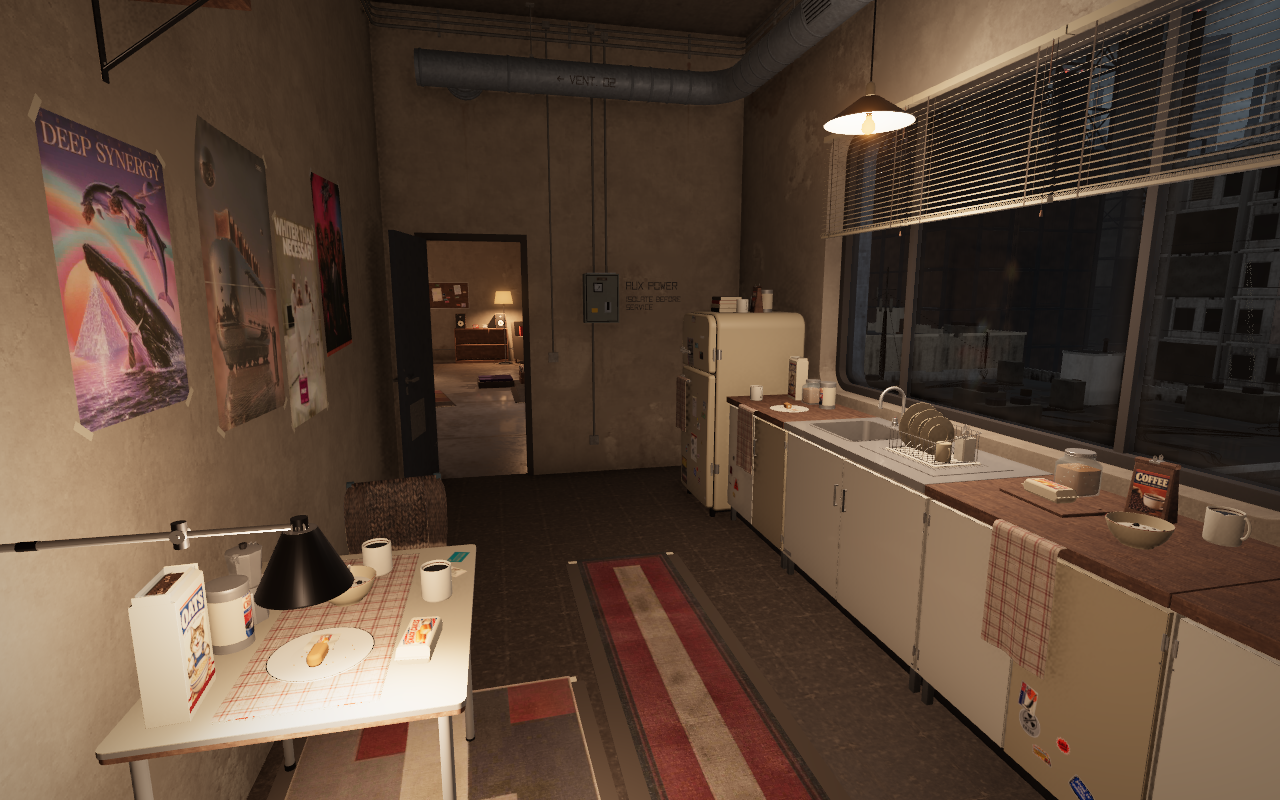
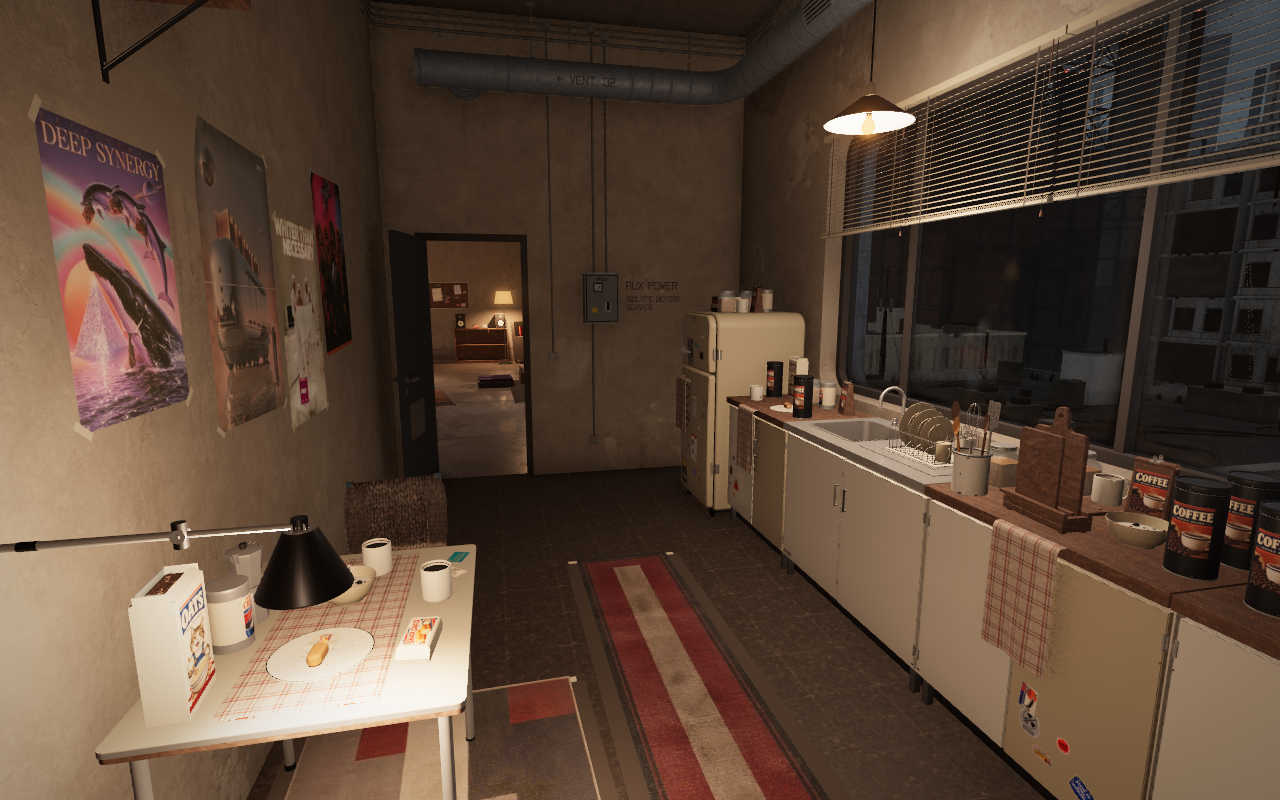
Show final counter props in kitchen reference comparison

Changed region(s): [[0.7188, 0.5, 1.0, 0.7812], [0.5938, 0.4375, 0.6875, 0.5312], [0.5625, 0.3438, 0.5938, 0.4062]]

diff --git a/concepts/kitchen-comfort-2026-10-09/index.html b/concepts/kitchen-comfort-2026-10-09/index.html
@@ -26,7 +26,7 @@
   <p>Vibe collected and repaired this room herself. These concepts add places to settle in, useful rescued storage, illustrated pantry packs and traces of two girls sharing their daily life.</p>
   <p class="hint">Placement rule for every direction: furnishings find suitable walls and floor space; loose items choose compatible worktops, dining surfaces, shelves and hooks. Changing the room layout must repack them onto the available surfaces. The pictures describe the mood and useful groups, rather than fixed object coordinates.</p>
   <div class="notice">
-    <p><strong>Matching the approved coffee hangout.</strong> The reference below is the target. Fuller storage, larger wall art, personal papers, faded plaid and repaired furniture are now in the matching pass. The next step adds standing boards, utensils and taller reused tins.</p>
+    <p><strong>Matching the approved coffee hangout.</strong> The reference below is the target. Fuller storage, larger wall art, personal papers, faded plaid and repaired furniture are now in the matching pass. Standing boards, a utensil crock and sixteen taller reused tins are now finished and placed by their surface rules.</p>
     <p class="hint">Only shelf-stable food and drinks: oats, coffee, powdered non-dairy creamer, sugar and long-life cakes. No plants. Loose items choose compatible surfaces and reshuffle after furniture edits. The cloth shares the existing atlas, with unchanged GPU memory.</p>
     <p><a href="https://lcs-rooms.up.railway.app/?t=19">Open the live kitchen</a> · <a href="../../props/?item=kitchen-chair-blue">Inspect the catalog models</a></p>
   </div>
@@ -41,9 +41,9 @@
     <h2>Reference and current 3D progress</h2>
     <p>The room is being judged against this picture. Finished asset counts and the automatic comfort score do not measure the visual match.</p>
     <figure><a href="approved-target.png"><img src="approved-target.png" alt="Approved makeshift coffee kitchen reference with crowded pantry shelves, plaid towels, a knitted chair drape, personal papers and warm shaded lamps." width="1280" height="800" fetchpriority="high"></a><figcaption>Approved target · generated concept art.</figcaption></figure>
-    <figure><a href="progress-a.png"><img src="progress-a.png" alt="Current native 3D kitchen matching pass with fuller storage, personal walls, plaid fridge and counter towels, repaired cupboards and a full knitted chair back." width="1280" height="800" loading="lazy"></a><figcaption>Current 3D implementation · entrance view · cloth and furniture pass.</figcaption></figure>
+    <figure><a href="progress-a.png"><img src="progress-a.png" alt="Current native 3D kitchen matching pass with fuller storage, personal walls, plaid fridge and counter towels, repaired cupboards and a full knitted chair back." width="1280" height="800" loading="lazy"></a><figcaption>Current 3D implementation · entrance view · fuller storage and final counter props.</figcaption></figure>
     <figure><a href="progress-b.png"><img src="progress-b.png" alt="Current opposing native 3D kitchen view with illustrated pantry supplies, a shaded table lamp, plaid runner and repaired mismatched chairs." width="1280" height="800" loading="lazy"></a><figcaption>Current 3D implementation · opposing view.</figcaption></figure>
-    <p class="hint">Still being improved: taller counter silhouettes and irregular pantry groups. Native GPU pictures at noon, dusk and night have no waiting surface inventory or missing prop models.</p>
+    <p class="hint">Still being checked against the reference: material character, lighting and the overall visual match. Native GPU pictures at noon, dusk and night have no waiting surface inventory or missing prop models.</p>
   </section>
   <section id="details">
     <h2>Everyday coffee and leftovers</h2>
